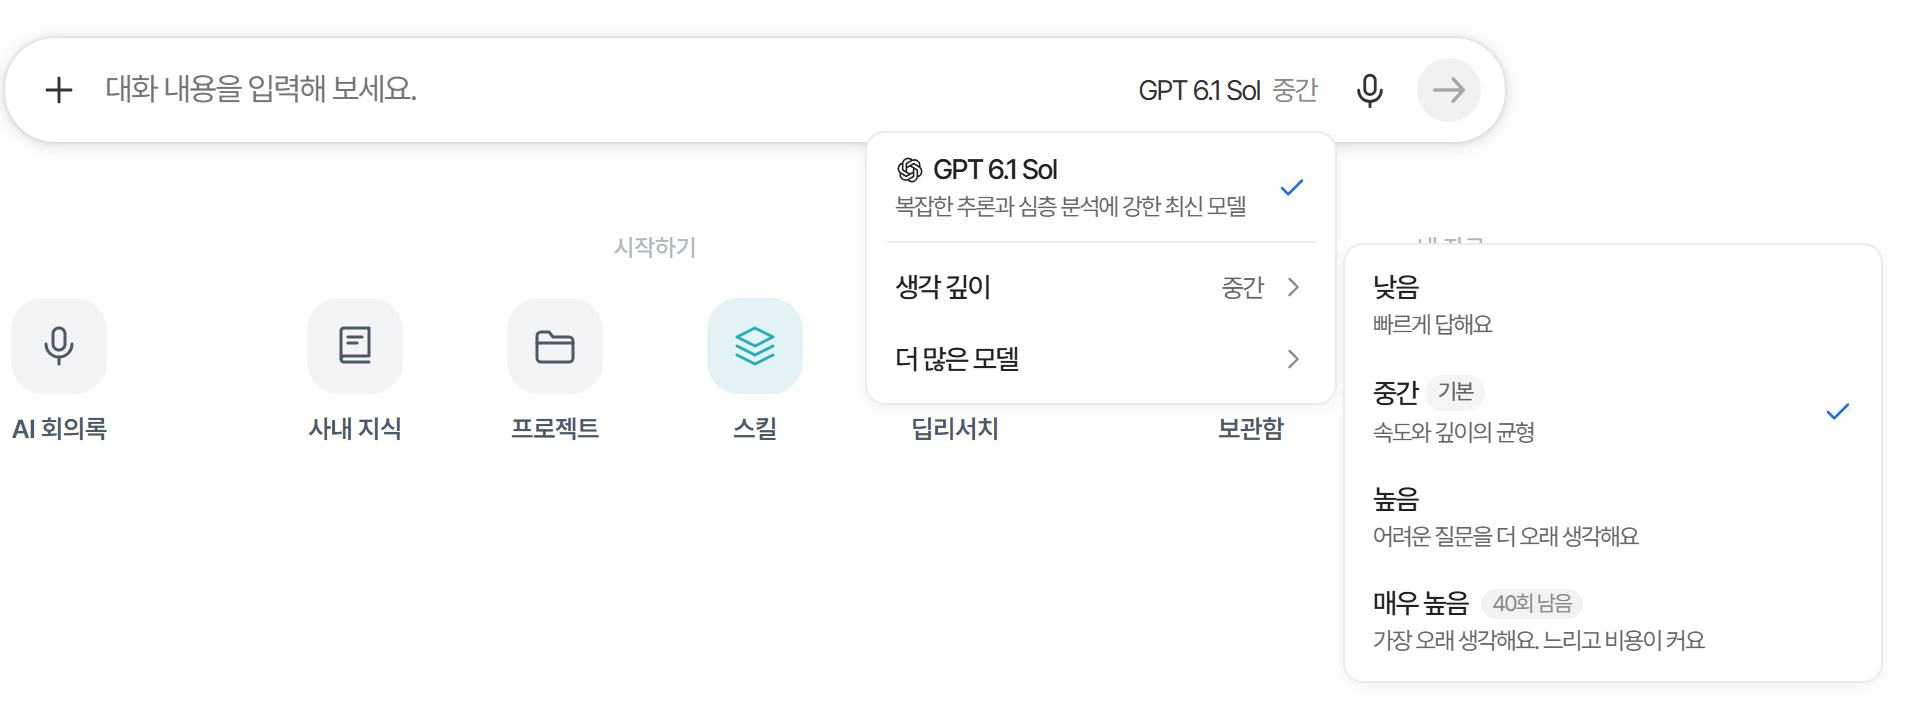
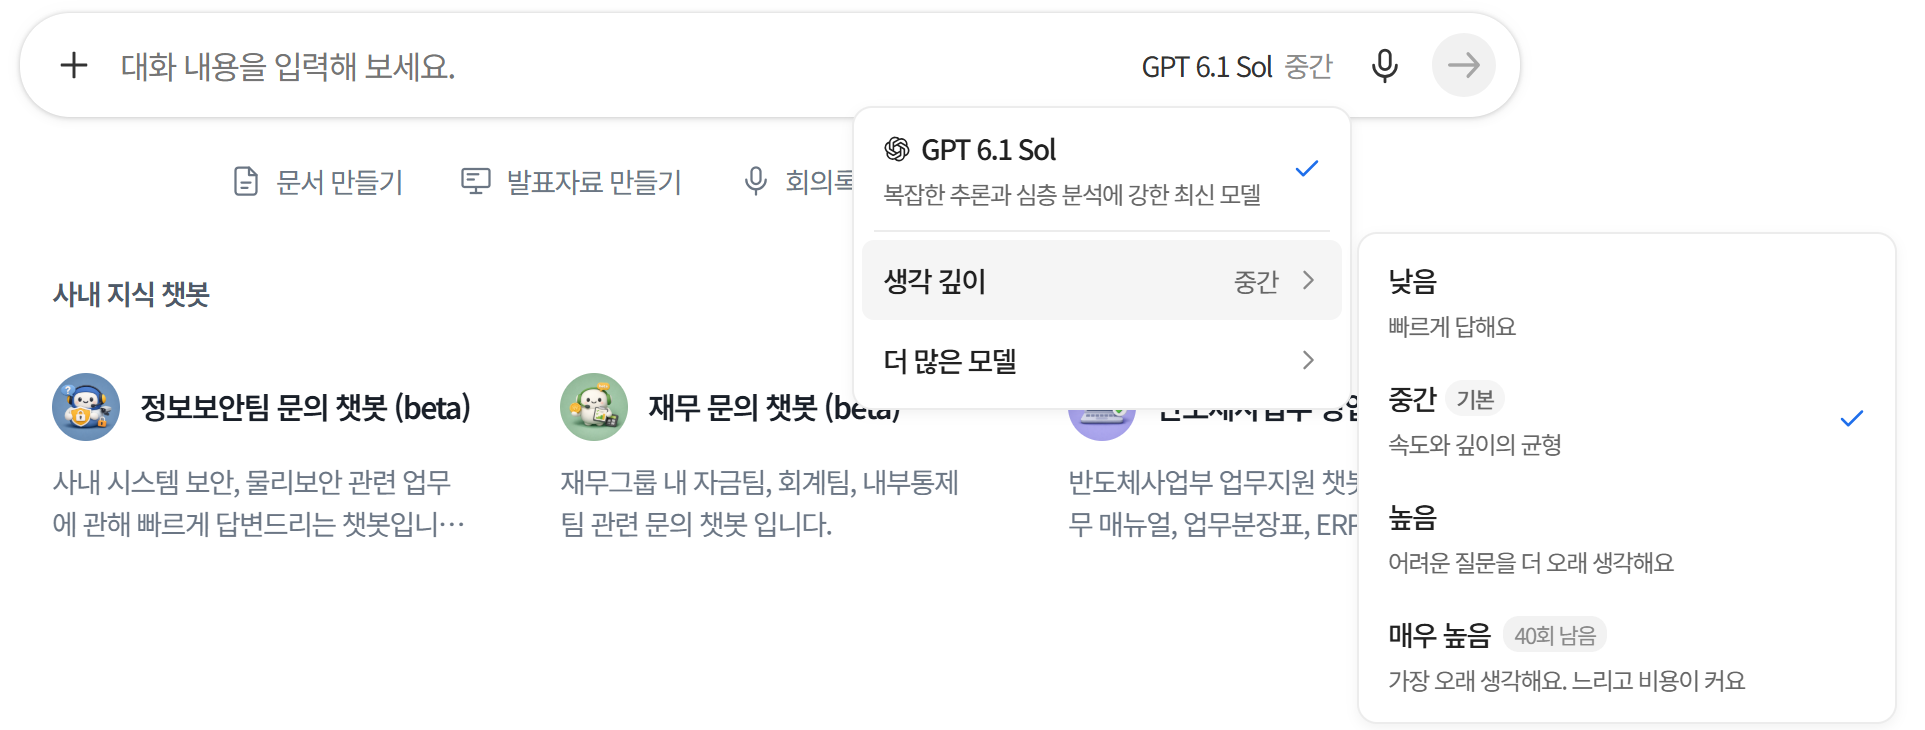
content(ai-platform): 생각 깊이 캡처를 칩 한 줄인 지금 첫 화면에서 다시 촬영
예전 캡처 뒤로 걷어낸 아이콘 타일이 보여, 첫 화면을 칩 한 줄로 바꿨다는
개요 문장과 어긋났다.

diff --git a/src/content/imageDims.ts b/src/content/imageDims.ts
@@ -53,7 +53,7 @@ export const imageDims: Record<string, { w: number; h: number }> = {
   '/projects/ai-platform/274.png': { w: 2685, h: 1464 },
   '/projects/ai-platform/275.png': { w: 3840, h: 2160 },
   '/projects/ai-platform/276.png': { w: 3840, h: 2160 },
-  '/projects/ai-platform/277.png': { w: 1925, h: 720 },
+  '/projects/ai-platform/277.png': { w: 1925, h: 730 },
   '/projects/ai-platform/278.png': { w: 3840, h: 2160 },
   '/projects/attach-ai-summary/pms-files.png': { w: 3840, h: 2160 },
   '/projects/attendance/115.png': { w: 1600, h: 900 },
